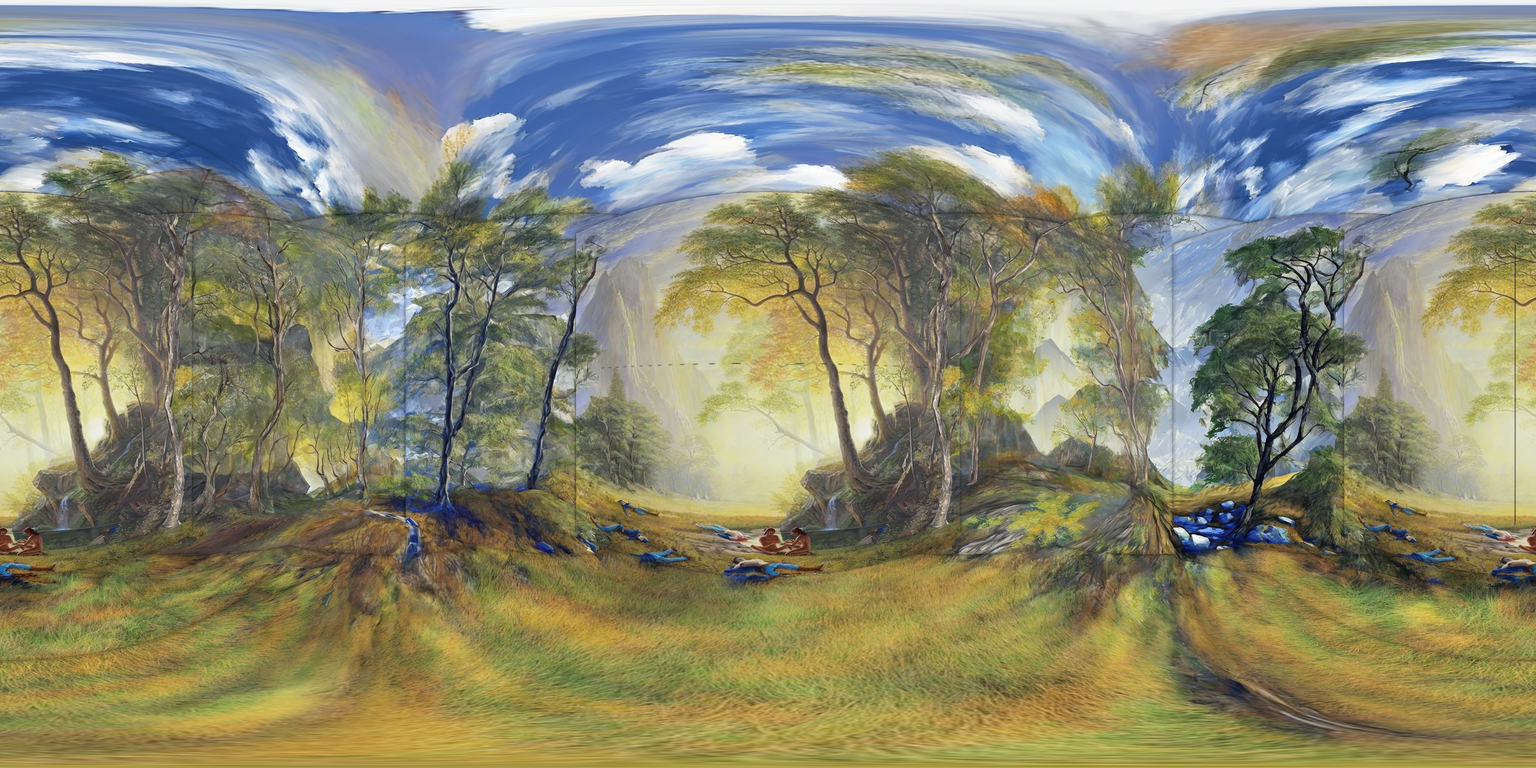
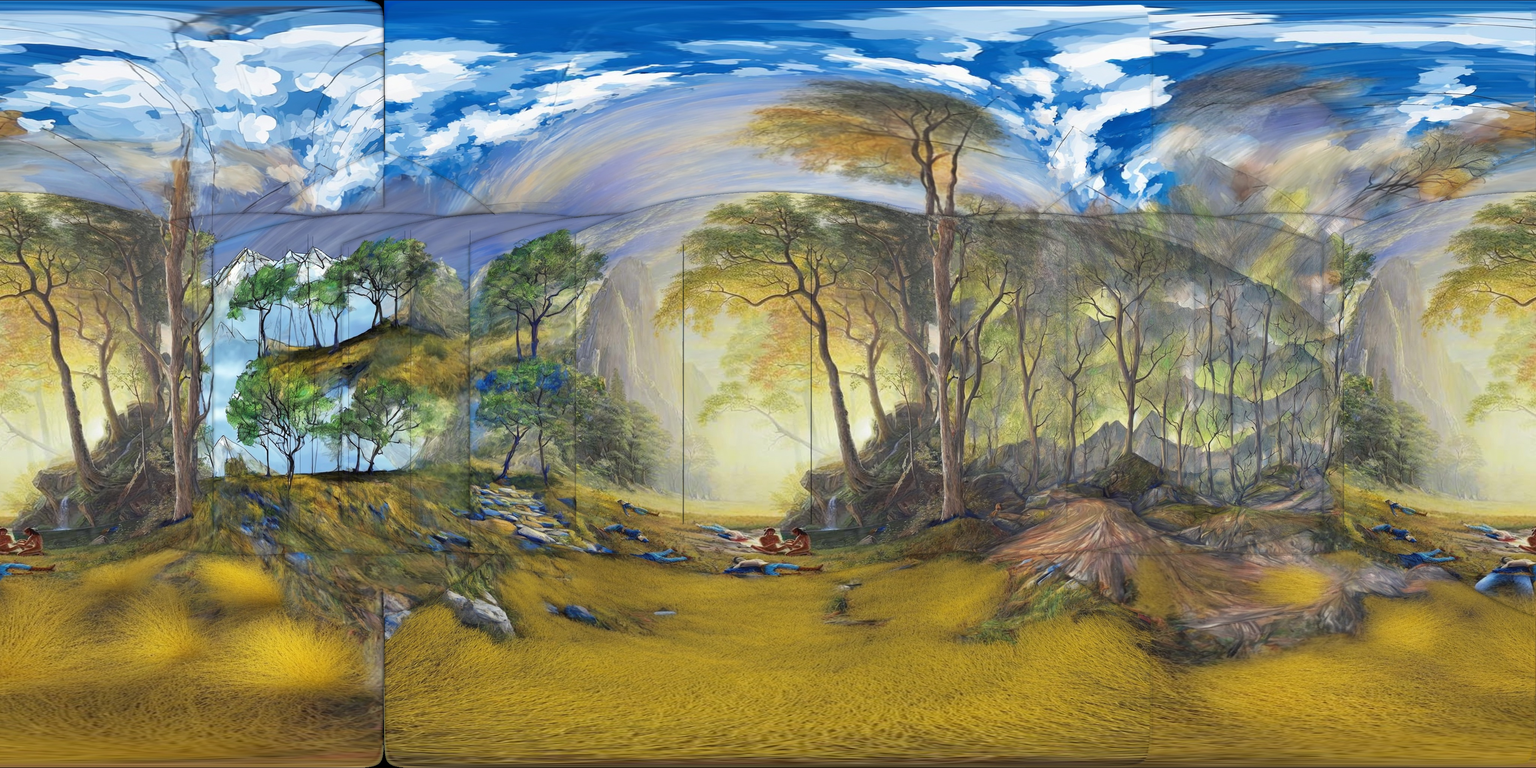
working on point cloud

diff --git a/utils/depth_prediction.py b/utils/depth_prediction.py
@@ -1,0 +1,112 @@
+import os
+from pathlib import Path
+import cv2
+from PIL import Image
+import numpy as np
+import torch
+from .persp_conv import equirectangular_to_perspective
+from .load_models import load_pipe
+
+
+def process_view(
+    crop_bgr: np.ndarray,
+    view_tag: str,
+    scene_type: str = "outdoor",
+    debug_dir: Path | str = "debug_depth",
+    q_lo: float = 0.20,
+    q_hi: float = 0.80,
+) -> np.ndarray:
+
+    # --- prepare input for transformers pipeline -------------
+    crop_rgb = cv2.cvtColor(crop_bgr, cv2.COLOR_BGR2RGB)
+    pil_img   = Image.fromarray(crop_rgb)
+    pil_img.save(f"{debug_dir}/{view_tag}_input_bgr.png")
+
+    # --- pick the right depth pipelines ---------------------
+    # pipe_rel    = load_pipe("pipe_rel")
+    pipe_metric = load_pipe(
+        "pipe_metric_indoor" if scene_type.lower() == "indoor"
+        else "pipe_metric_outdoor"
+    )
+
+    with torch.inference_mode():
+        # out_rel    = pipe_rel(pil_img)
+        out_metric = pipe_metric(pil_img)
+
+    # depth_rel_img    = out_rel["depth"]
+    depth_metric_img = out_metric["depth"]
+
+    # depth_rel    = np.array(depth_rel_img   , dtype=np.float32)
+    # depth_rel = depth_rel.max() - depth_rel
+
+    depth_metric = np.array(depth_metric_img, dtype=np.float32)
+
+    # --- compute the 20–80% quantile alignment -------------
+    # qrel_lo, qrel_hi = np.quantile(depth_rel,    [q_lo, q_hi])
+    # qmet_lo, qmet_hi = np.quantile(depth_metric, [q_lo, q_hi])
+    # scale = (qmet_hi - qmet_lo) / max(1e-6, (qrel_hi - qrel_lo))
+    # depth_aligned = depth_rel * scale
+
+    # --- optional: enforce ground ≥1.5m below camera -------
+    # z_ground = depth_aligned[depth_aligned < np.median(depth_aligned)]
+    # if z_ground.size:
+    #     cam2ground = np.mean(z_ground)
+    #     if cam2ground < 1.5:
+    #         depth_aligned *= 1.5 / cam2ground
+
+    # --- save debug visualizations -------------------------
+    def norm_uint8(arr):
+        return cv2.normalize(arr, None, 0, 255, cv2.NORM_MINMAX).astype(np.uint8)
+
+    # cv2.imwrite(f"{debug_dir}/{view_tag}_rel.png",     norm_uint8(depth_rel))
+    cv2.imwrite(f"{debug_dir}/{view_tag}_metric.png",  norm_uint8(depth_metric))
+    # cv2.imwrite(f"{debug_dir}/{view_tag}_aligned.png", norm_uint8(depth_aligned))
+
+    return depth_metric
+
+
+# ------------------------------------------------------------------
+# 3. Whole panorama  →  dict{view_tag : depth}
+# ------------------------------------------------------------------
+def process_pano(
+    pano_bgr: np.ndarray,
+    pitch_map: dict[str, float],
+    yaw_lists: dict[str, list[float]],
+    fov_map: dict[str, float],
+    scene_type: str = "outdoor",
+    debug_dir: Path | str = "debug_depth",
+) -> dict[str, np.ndarray]:
+
+    os.makedirs(debug_dir, exist_ok=True)
+    depths: dict[str, np.ndarray] = {}
+
+    # how many pixels in pano = 1° of yaw
+    px_per_deg = pano_bgr.shape[1] / 360.0
+
+    for region, pitch in pitch_map.items():
+        for yaw in yaw_lists[region]:
+            fov = fov_map[region]
+
+            # compute square view size from fov
+            tile_size = max(32, int(px_per_deg * fov))
+
+            # crop that square from the pano
+            crop = equirectangular_to_perspective(
+                pano_bgr,
+                yaw=yaw,
+                pitch=pitch,
+                fov=fov,
+                width=tile_size,
+                height=tile_size
+            )
+
+            view_tag = f"{region}_{int(yaw)}"
+            depth = process_view(
+                crop_bgr=crop,
+                view_tag=view_tag,
+                scene_type=scene_type,
+                debug_dir=debug_dir
+            )
+            depths[view_tag] = depth
+
+    return depths

diff --git a/utils/point_cloud.py b/utils/point_cloud.py
@@ -1,0 +1,84 @@
+import numpy as np
+
+def backproject_depth_to_camera(depth: np.ndarray, fov: float) -> np.ndarray:
+    """
+    Given a depth map (H×W) in meters and the horizontal field‑of‑view in degrees,
+    return a (H*W, 3) array of 3D points in the camera’s local frame.
+    """
+    H, W = depth.shape
+    # pixel coordinates
+    i, j = np.indices((H, W), dtype=np.float32)
+    # principal point at center
+    cx, cy = W / 2.0, H / 2.0
+    # focal length in pixels
+    f = W / (2.0 * np.tan(np.deg2rad(fov) / 2.0))
+    # camera‑space coordinates
+    x = (j - cx) * depth / f
+    y = (i - cy) * depth / f
+    z = depth
+    pts_cam = np.stack((x, y, z), axis=-1)  # H×W×3
+    return pts_cam.reshape(-1, 3)           # (H*W)×3
+
+def rotation_matrix(yaw: float, pitch: float) -> np.ndarray:
+    """
+    Build a 3×3 rotation matrix that first pitches (about X), then yaws (about Y).
+    Yaw, pitch in degrees.
+    """
+    y, p = np.deg2rad(yaw), np.deg2rad(pitch)
+    # pitch around X
+    Rx = np.array([[1,         0,          0],
+                   [0, np.cos(p), -np.sin(p)],
+                   [0, np.sin(p),  np.cos(p)]])
+    # yaw around Y
+    Ry = np.array([[ np.cos(y), 0, np.sin(y)],
+                   [         0, 1,        0],
+                   [-np.sin(y), 0, np.cos(y)]])
+    return Ry @ Rx
+
+def pano_to_pointcloud(
+    pano_bgr: np.ndarray,
+    depths: dict[str, np.ndarray],
+    pitch_map: dict[str, float],
+    yaw_lists: dict[str, list[float]],
+    fov_map: dict[str, float],
+) -> tuple[np.ndarray, np.ndarray]:
+    """
+    Merge per‑view depth maps into one global point cloud with colors.
+    Returns:
+      points: (N,3) float32 array of XYZ in panorama frame
+      colors: (N,3) uint8 array of RGB
+    """
+    all_pts = []
+    all_cols = []
+    for region, pitch in pitch_map.items():
+        for yaw in yaw_lists[region]:
+            tag = f"{region}_{int(yaw)}"
+            depth = depths[tag]               # H×W depth in meters
+            H, W = depth.shape
+            fov = fov_map[region]
+
+            # 1) back‑project to camera frame
+            pts_cam = backproject_depth_to_camera(depth, fov)  # (H*W)×3
+
+            # 2) rotate into world/panorama frame
+            R = rotation_matrix(yaw=yaw, pitch=pitch)
+            pts_world = (R @ pts_cam.T).T                     # (H*W)×3
+
+            # 3) sample color from the same view
+            #    re‑crop colors from panorama
+            crop_rgb = equirectangular_to_perspective(
+                pano_bgr, yaw=yaw, pitch=pitch,
+                fov=fov, width=W, height=H
+            )
+            cols = crop_rgb.reshape(-1, 3)                   # (H*W)×3
+
+            all_pts.append(pts_world)
+            all_cols.append(cols)
+
+    # concatenate all views
+    points = np.concatenate(all_pts, axis=0)
+    colors = np.concatenate(all_cols, axis=0)
+
+    # (optional) filter out points at zero depth or outliers here…
+
+    return points, colors

diff --git a/utils/blend_pano.py b/utils/blend_pano.py
@@ -12,12 +12,12 @@ def blend_patch_into_pano(
     fov: float,
     *,
     blur_radius: int = 31,
-    dilate_px: int = 3         # enlarge mask a few pixels before blurring
+    dilate_px: int = 3
 ) -> np.ndarray:
 
     H, W = pano.shape[:2]
 
-    # --- 1. Warp tile and mask back to pano coords --------------------------
+    # 1) Warp tile & mask
     warped_tile = perspective_to_equirectangular(
         tile, yaw=yaw, pitch=pitch, fov=fov, width=W, height=H
     )
@@ -25,27 +25,32 @@ def blend_patch_into_pano(
         mask, yaw=yaw, pitch=pitch, fov=fov, width=W, height=H
     )
 
-    # make mask single-channel binary 0/1
+    # make mask binary
     if warped_mask.ndim == 3:
         warped_mask = cv2.cvtColor(warped_mask, cv2.COLOR_BGR2GRAY)
     bin_mask = (warped_mask > 127).astype(np.uint8)
 
-    # --- 2. Feather the mask edge ------------------------------------------
+    # 2) Morphological closing to eliminate tiny cracks
     if dilate_px > 0:
-        kernel = cv2.getStructuringElement(cv2.MORPH_ELLIPSE, (dilate_px*2+1,)*2)
+        kernel = cv2.getStructuringElement(
+            cv2.MORPH_ELLIPSE, (dilate_px*2+1,)*2
+        )
         bin_mask = cv2.dilate(bin_mask, kernel)
+        bin_mask = cv2.erode(bin_mask, kernel)
 
-    k = blur_radius | 1                 # make sure kernel is odd
+    # 3) Feather edges
+    k = blur_radius | 1
     soft_mask = cv2.GaussianBlur(bin_mask*255, (k, k), 0).astype(np.float32)
-    alpha = (soft_mask / 255.0)[..., None]   # H×W×1 in [0,1]
+    alpha = (soft_mask / 255.0)[..., None]
 
-    # --- 3. Prevent black bleed: copy pano into tile outside the mask -------
-    warped_tile_bg_fixed = warped_tile.copy()
-    warped_tile_bg_fixed[bin_mask == 0] = pano[bin_mask == 0]
+    # 4) Fill any black holes in warped_tile with pano
+    black_hole = np.all(warped_tile == 0, axis=2)
+    if np.any(black_hole):
+        warped_tile[black_hole] = pano[black_hole]
 
-    # --- 4. Composite -------------------------------------------------------
-    pano_f   = pano.astype(np.float32)
-    tile_f   = warped_tile_bg_fixed.astype(np.float32)
-    out_f    = (1.0 - alpha) * pano_f + alpha * tile_f
+    # 5) Composite
+    pano_f = pano.astype(np.float32)
+    tile_f = warped_tile.astype(np.float32)
+    out_f = (1.0 - alpha) * pano_f + alpha * tile_f
 
     return np.clip(out_f, 0, 255).astype(np.uint8)

diff --git a/utils/load_models.py b/utils/load_models.py
@@ -3,6 +3,7 @@ import torch
 
 device = "cuda" if torch.cuda.is_available() else "cpu"
 
+## Depth model
 processor_depth = AutoImageProcessor.from_pretrained(
     "depth-anything/Depth-Anything-V2-Large-hf",
     use_fast=False
@@ -14,6 +15,8 @@ pipe_depth = pipeline(
     device=device
 )
 
+
+## Indoor metric
 processor_indoor = AutoImageProcessor.from_pretrained(
     "depth-anything/Depth-Anything-V2-Metric-Indoor-Large-hf",
     use_fast=False
@@ -25,6 +28,8 @@ pipe_metric_indoor = pipeline(
     device=device
 )
 
+
+## Outdoor metric
 processor_outdoor = AutoImageProcessor.from_pretrained(
     "depth-anything/Depth-Anything-V2-Metric-Outdoor-Large-hf",
     use_fast=False
@@ -35,3 +40,17 @@ pipe_metric_outdoor = pipeline(
     image_processor=processor_outdoor,
     device=device
 )
+
+def load_pipe(model_id: str):
+    if model_id == "pipe_rel":
+        return pipe_depth
+
+    elif model_id == "pipe_metric_indoor":
+        return pipe_metric_indoor
+
+    elif model_id == "pipe_metric_outdoor":
+        return pipe_metric_outdoor
+
+    else:
+        print("Model not found.")
+

diff --git a/run_pano.py b/run_pano.py
@@ -7,20 +7,21 @@ from utils.one_cycle import one_cycle, save_image
 
 PITCH_MAP       = {
     "atmosphere":       0.0,
-    "sky_or_ceiling":   60.0,
-    "ground_or_floor": -60.0,
+    "sky_or_ceiling":   45.0,
+    "ground_or_floor": -45.0,
 }
 
 
-HORIZONTAL_YAWS = [45, -45, 135, -135, 90, -90, 180, -180]
+# HORIZONTAL_YAWS = [45, -45, 135, -135, 90, -90, 180, -180]
+HORIZONTAL_YAWS = [30, -30, 60, -60, 90, -90, 120, -120]
 SKY_YAWS        = [0, 90, 180, 270]
 GROUND_YAWS     = [0, 90, 180, 270]
 
 
 FOV_MAP         = {
     "atmosphere":      80.0,
-    "sky_or_ceiling":  110.0,
-    "ground_or_floor": 110.0,
+    "sky_or_ceiling":  90.0,
+    "ground_or_floor": 90.0,
 }
 
 

diff --git a/run_depth.py b/run_depth.py
@@ -1,0 +1,32 @@
+import cv2
+from utils.depth_prediction import process_pano, process_view
+from utils.load_models import load_pipe
+
+
+PITCH_MAP = {
+    "atmosphere": 0.0,
+    "sky_or_ceiling": 60.0,
+    "ground_or_floor": -60.0,
+}
+YAW_LISTS = {
+    "atmosphere": [45, -45, 135, -135, 90, -90, 180, -180],
+    "sky_or_ceiling": [0, 90, 180, 270],
+    "ground_or_floor": [0, 90, 180, 270],
+}
+FOV_MAP = {
+    "atmosphere": 80.0,
+    "sky_or_ceiling": 110.0,
+    "ground_or_floor": 110.0,
+}
+
+
+pano = cv2.imread("pano1.jpg")
+
+depths = process_pano(pano, PITCH_MAP, YAW_LISTS, FOV_MAP, scene_type="outdoor")
+
+
+
+
+
+
+

diff --git a/utils/persp_conv.py b/utils/persp_conv.py
@@ -11,9 +11,7 @@ def equirectangular_to_perspective(
     width: int,
     height: int
 ) -> np.ndarray:
-    # now takes the array directly
     equ = Equirectangular(equi_img)
-    # note: GetPerspective(fov, theta, phi, H, W)
     persp = equ.GetPerspective(fov, yaw, pitch, height, width)
     return persp
 
@@ -25,8 +23,6 @@ def perspective_to_equirectangular(
     width: int,
     height: int
 ) -> np.ndarray:
-    # feed the image array straight in
     per = Perspective(pers_img, fov, yaw, pitch)
-    # GetEquirec(H, W) returns (equirect, mask)
     equirec, _ = per.GetEquirec(height, width)
     return equirec

diff --git a/utils/one_cycle.py b/utils/one_cycle.py
@@ -26,7 +26,7 @@ def one_cycle(
     pano: np.ndarray,
     yaw: float,
     pitch: float = 0.0,
-    fov: float = 90.0,
+    fov: float = 85.0,
     prompt: str = "",
     guidance_scale: float = 8.0,
     steps: int = 50
